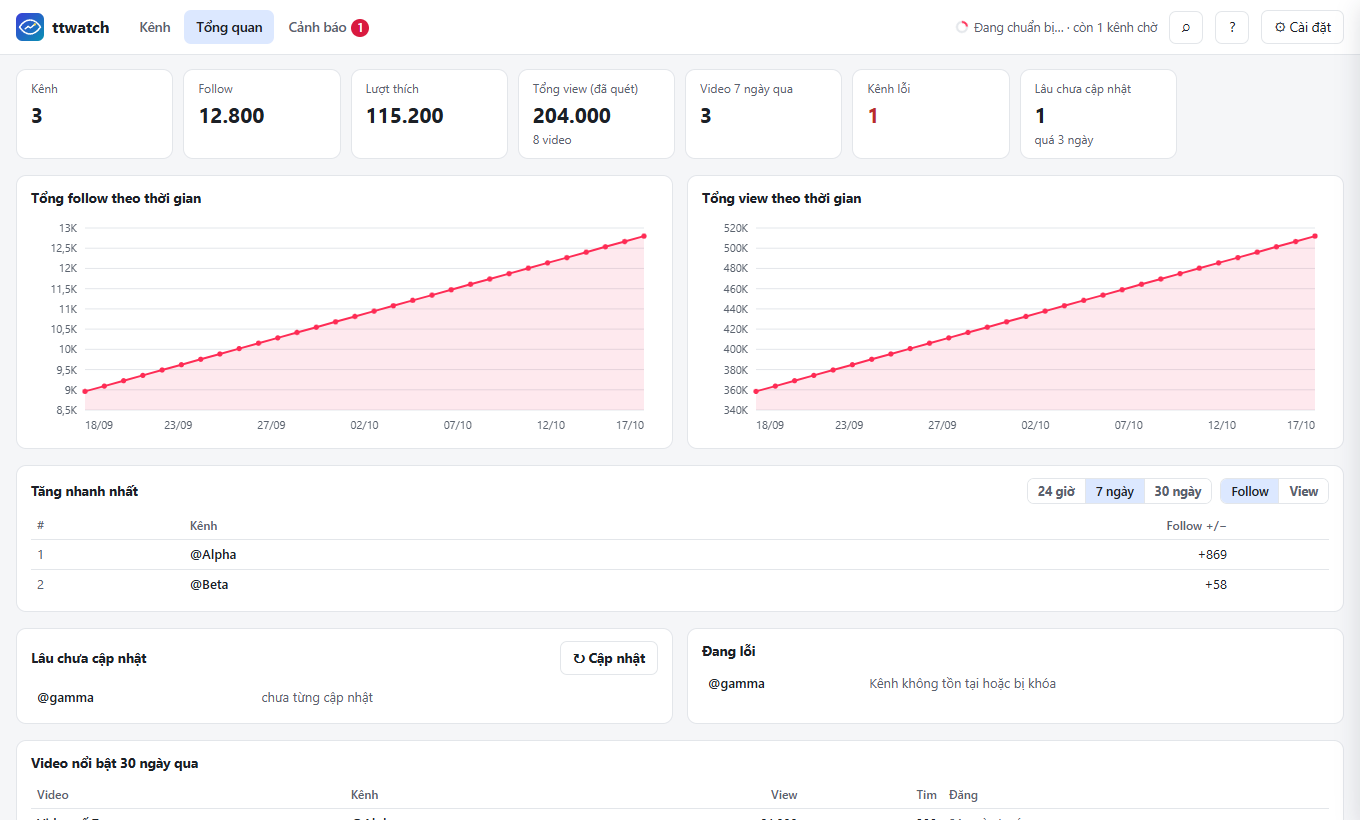
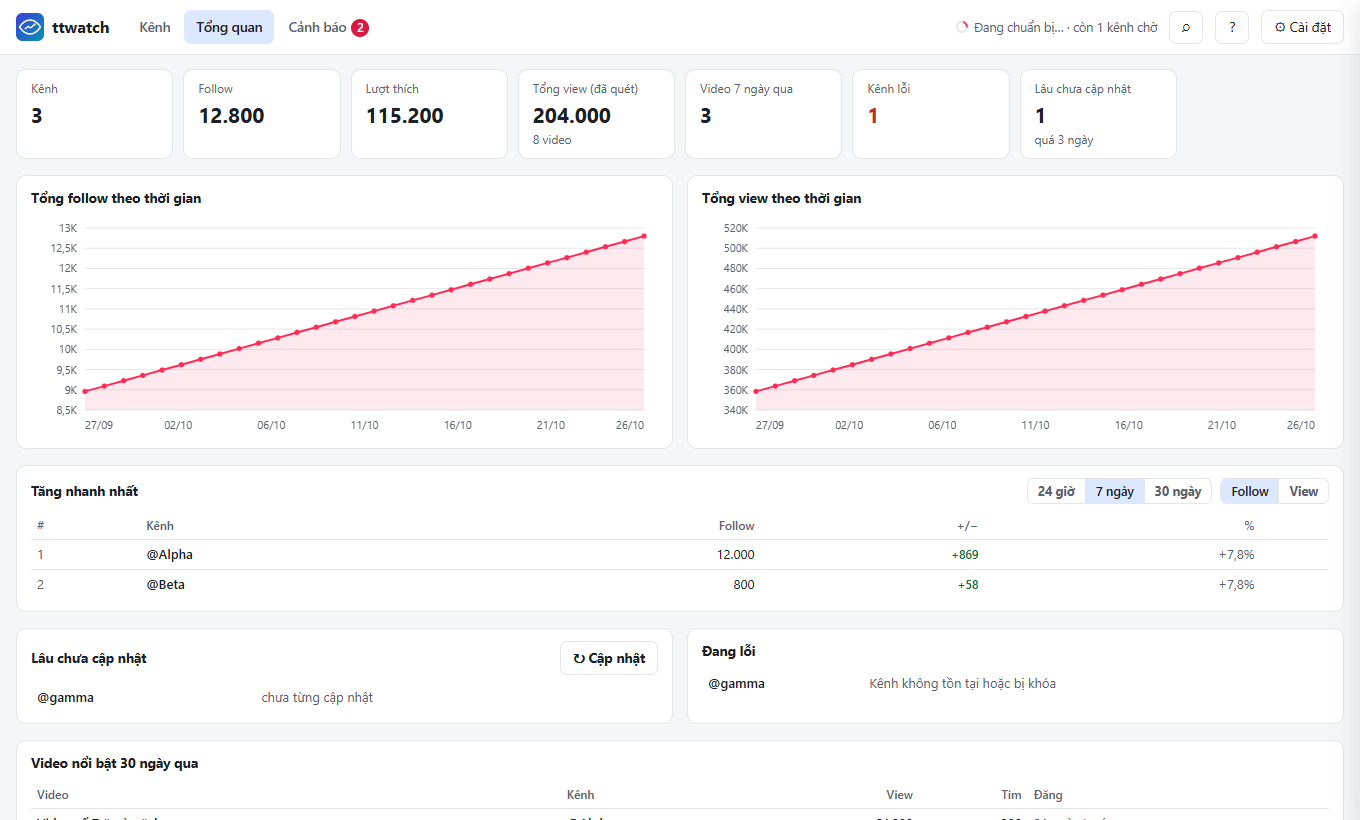
Show the current value and the percentage change in the fastest growing table. (#9)

diff --git a/static/panels.js b/static/panels.js
@@ -69,8 +69,10 @@ async function renderOverview() {
   const list = o.gainers[ovState.win][ovState.metric];
   const unit = ovState.metric === "followers" ? "follow" : "view";
   const gainRows = list.length
-    ? `<table class="mini"><tr><th>#</th><th>Kênh</th><th class="r">${ovState.metric === "followers" ? "Follow" : "Tổng view"} +/−</th><th></th></tr>` +
-      list.map((r, i) => `<tr><td class="muted">${i + 1}</td><td>${chLink(r)}</td><td class="r">${r.delta > 0 ? "+" : r.delta < 0 ? "−" : ""}${plainNf(Math.abs(r.delta))}</td><td class="muted">${r.partial ? "mới theo dõi" : ""}</td></tr>`).join("") +
+    ? `<table class="mini"><tr><th>#</th><th>Kênh</th><th class="r">${ovState.metric === "followers" ? "Follow" : "Tổng view"}</th><th class="r">+/−</th><th class="r">%</th><th></th></tr>` +
+      list.map((r, i) => `<tr><td class="muted">${i + 1}</td><td>${chLink(r)}</td><td class="r">${plainNf(r.value)}</td>` +
+        `<td class="r"><span class="delta ${r.delta > 0 ? "up" : r.delta < 0 ? "down" : ""}">${r.delta > 0 ? "+" : r.delta < 0 ? "−" : ""}${plainNf(Math.abs(r.delta))}</span></td>` +
+        `<td class="r muted">${r.pct != null ? (r.pct > 0 ? "+" : "") + String(r.pct).replace(".", ",") + "%" : "–"}</td><td class="muted">${r.partial ? "mới theo dõi" : ""}</td></tr>`).join("") +
       "</table>"
     : `<div class="none-yet">Chưa đủ lịch sử: cần ít nhất hai lần cập nhật cách nhau để tính mức tăng ${unit}.</div>`;
   const miniList = (rows, empty, extra) =>

diff --git a/tests/test_insights.py b/tests/test_insights.py
@@ -144,6 +144,12 @@ class OverviewTest(unittest.TestCase):
         _snap(db, "young", NOW - 3600, 40)
         row = self.insights.overview(now=NOW)["gainers"]["d30"]["followers"][0]
         self.assertEqual((row["delta"], row["partial"]), (30, True))
+        self.assertEqual((row["value"], row["pct"]), (40, 300.0))
+        db.add_channels(["zero"])
+        _snap(db, "zero", NOW - 2 * DAY, 0)  # a zero baseline has no percentage
+        _snap(db, "zero", NOW - 60, 5)
+        rows = {r["username"]: r for r in self.insights.overview(now=NOW)["gainers"]["d30"]["followers"]}
+        self.assertIsNone(rows["zero"]["pct"])
 
     def test_series_is_cumulative_and_carries_forward(self):
         db = _fresh_db("overview-series")

diff --git a/insights.py b/insights.py
@@ -86,7 +86,9 @@ def _delta_at(rows, cutoff, field):
         base, partial = rows[0], True
     if base is latest or base[field] is None or latest[field] is None:
         return None
-    return {"delta": latest[field] - base[field], "since": base["ts"], "partial": partial}
+    delta = latest[field] - base[field]
+    return {"delta": delta, "since": base["ts"], "partial": partial, "value": latest[field],
+            "pct": round(delta / base[field] * 100, 1) if base[field] else None}
 
 
 def overview(now=None, stale_days=3, top=10):

diff --git a/CHANGELOG.md b/CHANGELOG.md
@@ -4,6 +4,7 @@
 
 ### Changed
 - *Cài đặt* is split into titled groups (scanning, auto-update, alerts, startup and updates, appearance, data) laid out in two columns on wide windows, and *Lưu* stays visible at the bottom while the dialog scrolls.
+- *Tăng nhanh nhất* in *Tổng quan* also shows each channel's current followers or views and the change in percent; the gainers in `GET /api/overview` gain `value` and `pct` (`null` when the starting value is 0).
 
 ### Added
 - **Standout video alert.** After an update, a video posted in the last 30 days that reaches 3 times the channel's median views (needs at least 5 videos) creates a ★ alert with its views and how many times the median it is, and shows in the tray like the other alerts. Each video alerts once, on the update that takes it over the bar. Set the multiple in *Cài đặt* (`alert_viral_x`, 0 = off).
